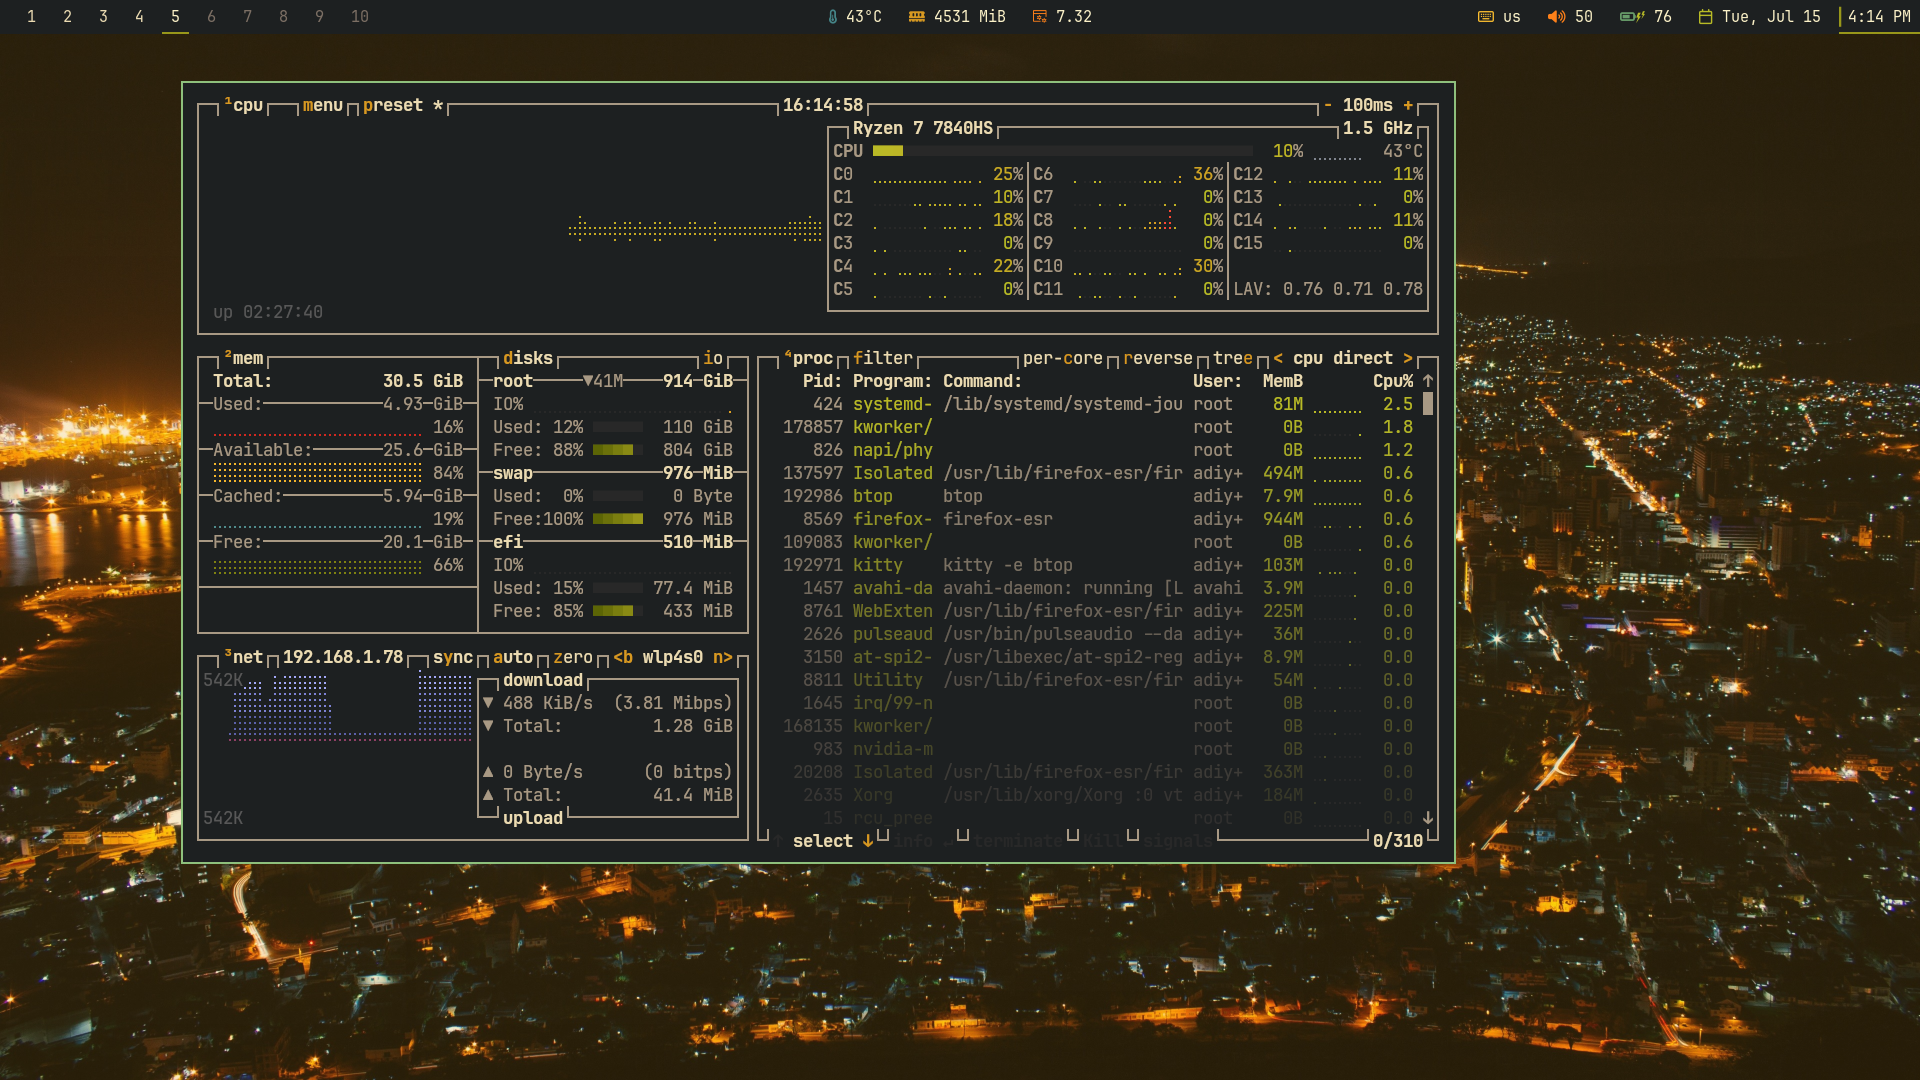
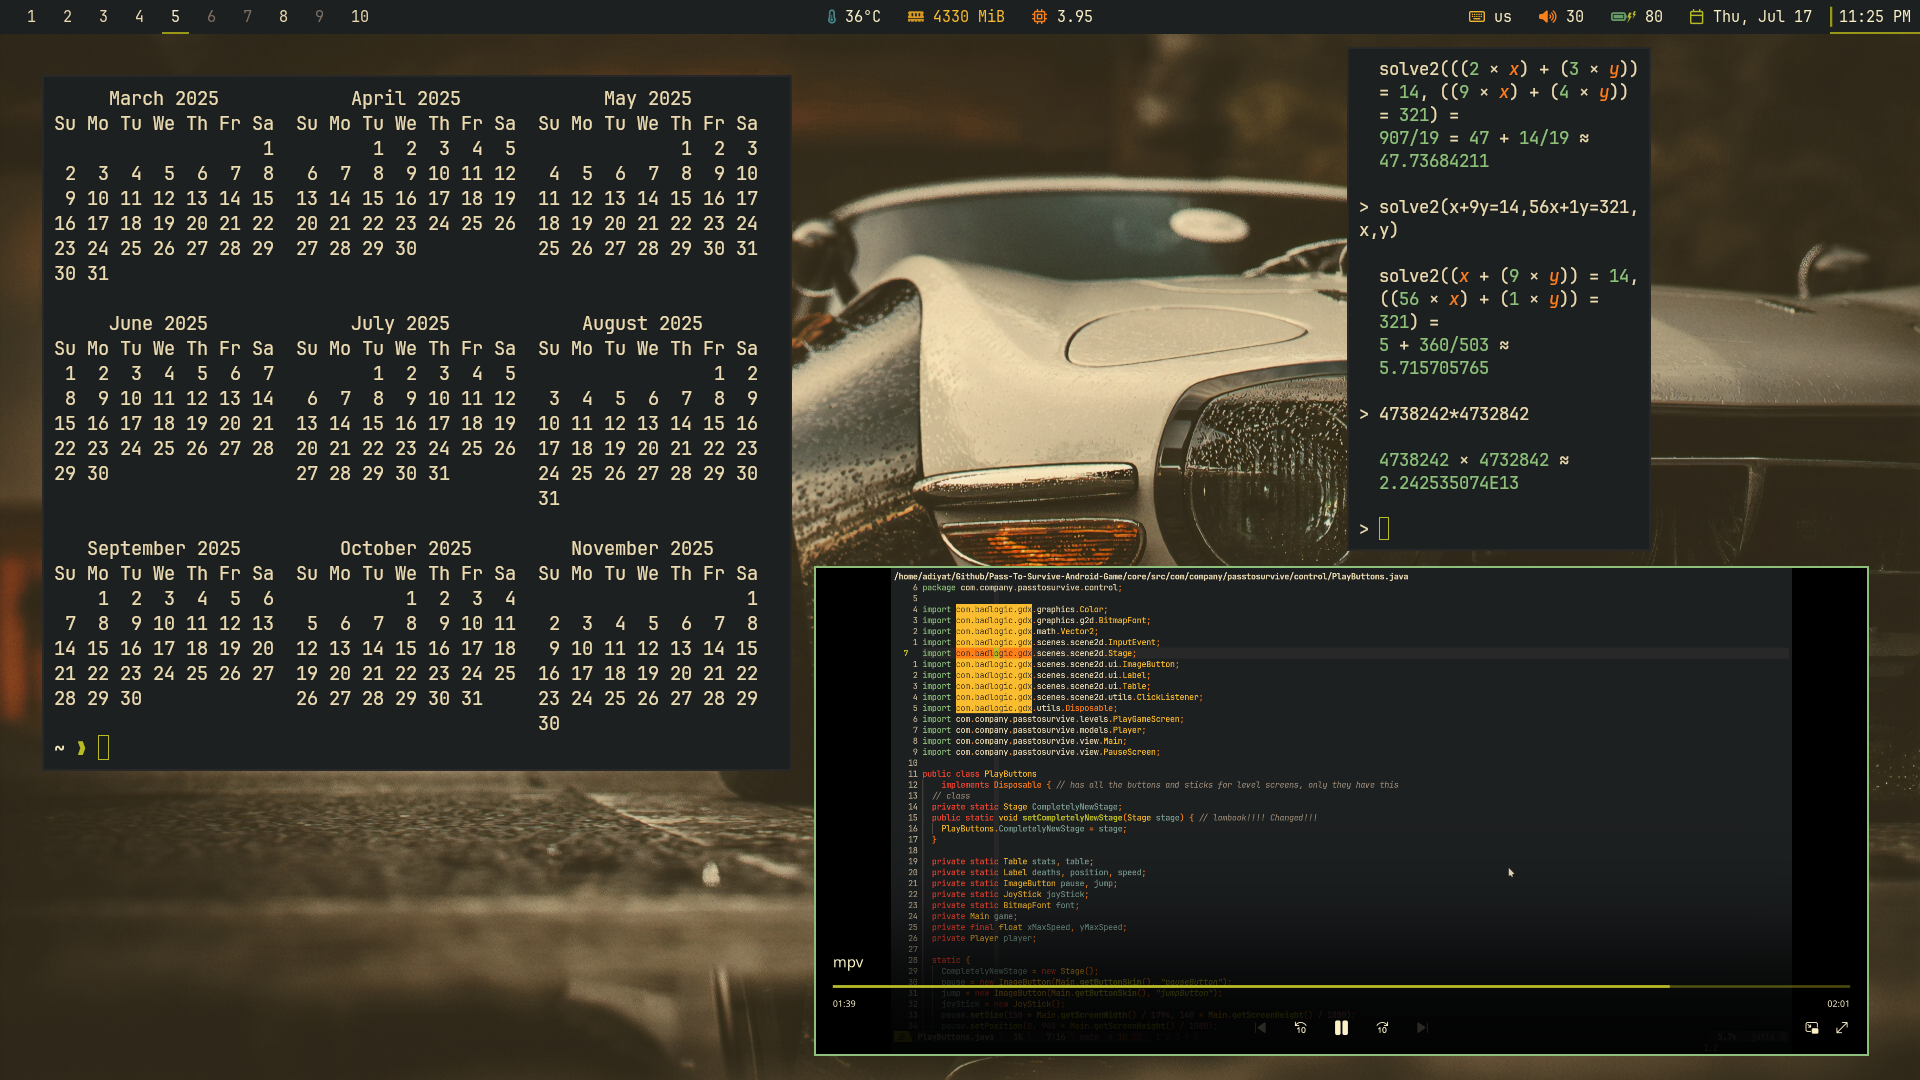
Updated README

diff --git a/SCREENSHOTS.md b/SCREENSHOTS.md
@@ -1,0 +1,9 @@
+![Screenshot 1](.github/Screenshots/Screenshot_2.png)
+![Screenshot 2](.github/Screenshots/Screenshot_3.png)
+![Screenshot 3](.github/Screenshots/Screenshot_4.png)
+![Screenshot 4](.github/Screenshots/Screenshot_5.png)
+![Screenshot 5](.github/Screenshots/Screenshot_6.png)
+![Screenshot 6](.github/Screenshots/Screenshot_7.png)
+![Screenshot 7](.github/Screenshots/Screenshot_8.png)
+![Screenshot 8](.github/Screenshots/Screenshot_9.png)
+![Screenshot 9](.github/Screenshots/Screenshot_10.png)